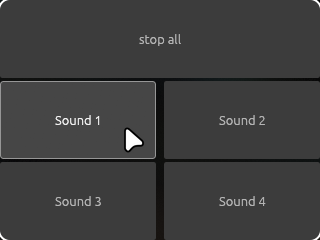
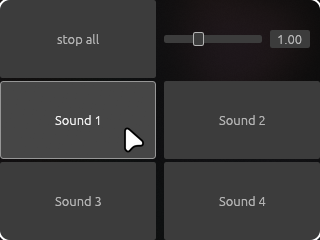
Add proper config fetching

Changed region(s): [[0.4375, 0.0, 1.0, 0.35], [0.1562, 0.1458, 0.3125, 0.2042]]

diff --git a/src/main.rs b/src/main.rs
@@ -5,26 +5,44 @@ mod audio_engine;
 mod config;
 mod load_audio;
 
-use std::{env::args, path::Path};
+use std::{env::args, path::PathBuf};
 
 use crate::{app::MyApp, config::Config};
+use directories::ProjectDirs;
 use eframe::{NativeOptions, Result, egui, run_native};
 use egui::ViewportBuilder;
 use egui_extras::install_image_loaders;
+use shellexpand::full;
 
 fn main() -> Result {
-    if args().any(|a| a == "--help" || a == "-h") {
-        println!(
-            "{}",
-            "Usage: gridboard <path/to/config.jsonc> [--help | -h]"
-        );
+    let args: Vec<String> = args().collect();
+    let mut config_path_arg = None;
+    let mut show_help = false;
+    for arg in args.iter().skip(1) {
+        match arg.as_str() {
+            "--help" | "-h" => {
+                show_help = true;
+                break;
+            }
+            _ if !arg.starts_with('-') => {
+                config_path_arg = Some(arg.as_str());
+            }
+            _ => {}
+        }
+    }
+
+    if show_help {
+        println!("Usage: gridboard [path/to/config.jsonc] [--help | -h]");
         return Ok(());
     }
-    let config_path = args()
-        .skip(1)
-        .find(|a| !a.starts_with("-"))
-        .expect("No config file path provided in the arguments");
-    let config = Config::from_jsonc(&Path::new(&config_path));
+
+    let config = Config::from_jsonc(&match config_path_arg {
+        Some(path) => PathBuf::from(full(path).unwrap().as_ref()),
+        None => ProjectDirs::from("", "", "gridboard")
+            .expect("Failed to resolve standard config directory")
+            .config_dir()
+            .join("config.jsonc"),
+    });
 
     let options = NativeOptions {
         viewport: ViewportBuilder::default().with_inner_size([320.0, 240.0]),

diff --git a/README.md b/README.md
@@ -5,10 +5,10 @@
 ## Usage
 
 ```
-gridboard <path/to/config.jsonc> [--help | -h]
+gridboard [path/to/config.jsonc] [--help | -h]
 ```
 
-## Example config
+If no config path is provided, the app will get it's config from `$XDG_CONFIG_HOME/gridboard/config.jsonc` on Linux, `%APPDATA%\gridboard\config.jsonc` on Windows, or `~/Library/Application Support/gridboard/config.jsonc` on MacOS.
 
 ```jsonc
 {
